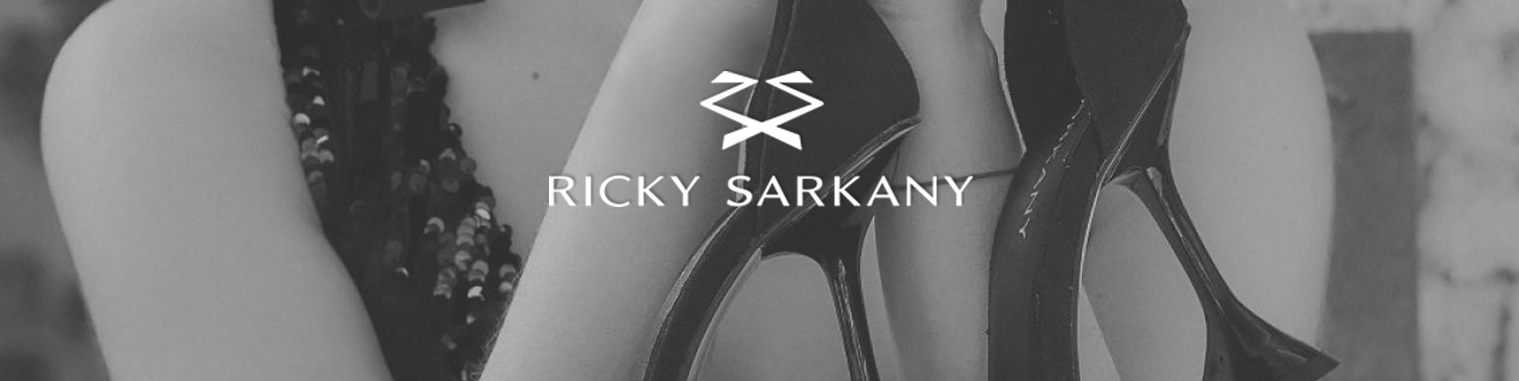
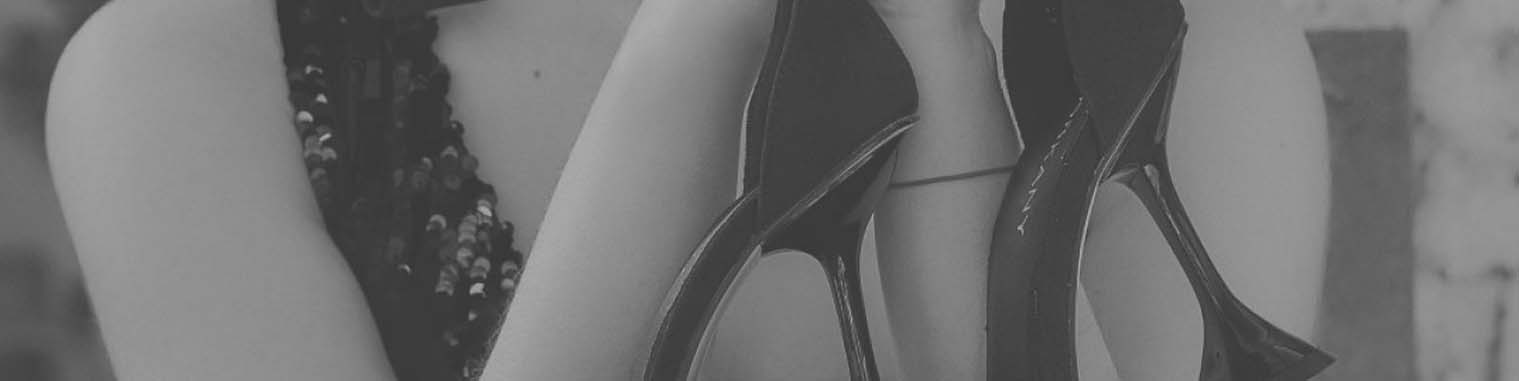
Corregir responsive / componente navbar

diff --git a/src/general/Proveedor.js b/src/general/Proveedor.js
@@ -1,23 +1,32 @@
-import { Box, Button } from "@mui/material";
+import { Box, Button, Grid } from "@mui/material";
 import React from "react";
 import "../style/Proveedor.css";
+import sarkany from "../assets/sarkany.png";
 
 const Proveedor = () => {
   return (
     <Box
+      sx={{ flexGrow: 1 }}
       className="box-principal"
       textAlign={"center"}
       height={"381px"}
     >
-      <Button
-        href="https://www.rickysarkany.com/"
-        target="_blank"
-        style={{ marginTop: 250 }}
-        color="primary"
-        variant="contained"
-      >
-        ¡Nueva colección invierno 2022!
-      </Button>
+      <Grid container>
+        <Grid item xs={12} sm={4}>
+          <img src={sarkany} alt="Logo" className="logo-sarkany"></img>
+        </Grid>
+        <Grid item xs={12} sm={4}>
+          <Button
+            href="https://www.rickysarkany.com/"
+            target="_blank"
+            style={{ marginTop: 230 }}
+            color="primary"
+            variant="contained"
+          >
+            ¡Nueva colección invierno 2022!
+          </Button>
+        </Grid>
+      </Grid>
     </Box>
   );
 };

diff --git a/src/general/footer.js b/src/general/footer.js
@@ -99,7 +99,7 @@ export default function Footer() {
                   label="Email"
                   variant="outlined"
                   size="small"
-                  style={{ width: "100%" }}
+                  style={{ width: "95%" }}
                   className="email-classname"
                   InputLabelProps={{ className: "email-classname" }}
                 />
@@ -110,7 +110,7 @@ export default function Footer() {
                   label="Nombre"
                   variant="outlined"
                   size="small"
-                  style={{ width: "48%" }}
+                  style={{ width: "40%" }}
                   className="nombre-classname"
                   InputLabelProps={{ className: "nombre-classname" }}
                 />
@@ -119,7 +119,7 @@ export default function Footer() {
                   label="Apellido"
                   variant="outlined"
                   size="small"
-                  style={{ width: "48%" }}
+                  style={{ width: "40%" }}
                   className="apellido-classname"
                   InputLabelProps={{ className: "apellido-classname" }}
                 />

diff --git a/src/style/footerKMV.css b/src/style/footerKMV.css
@@ -38,12 +38,14 @@
 }
 .contact-text {
   font-size: 20px;
+  padding-right: 5px;
   font-family: "Roboto", sans-serif;
   display: flex;
   justify-content: center;
 }
 .boton-texto {
   padding-top: 20px;
+  padding-left: 50px;
 }
 .boton {
   padding-top: 20px;
@@ -70,6 +72,7 @@
 }
 .email {
   padding-top: 22px;
+  padding-left: 5px;
 }
 .gridform {
   padding: 0 50px 0 50px;

diff --git a/src/style/Proveedor.css b/src/style/Proveedor.css
@@ -1,9 +1,10 @@
 .box-principal{
     background-image: url(../assets/Sarkany.jpg);
-    background-repeat: no-repeat;
-    align-items: center;
     height: 381px;
     width: 1519px;
 
 }
-
+.logo-sarkany {
+    height: 300px;
+    padding-left: 610px;
+}
